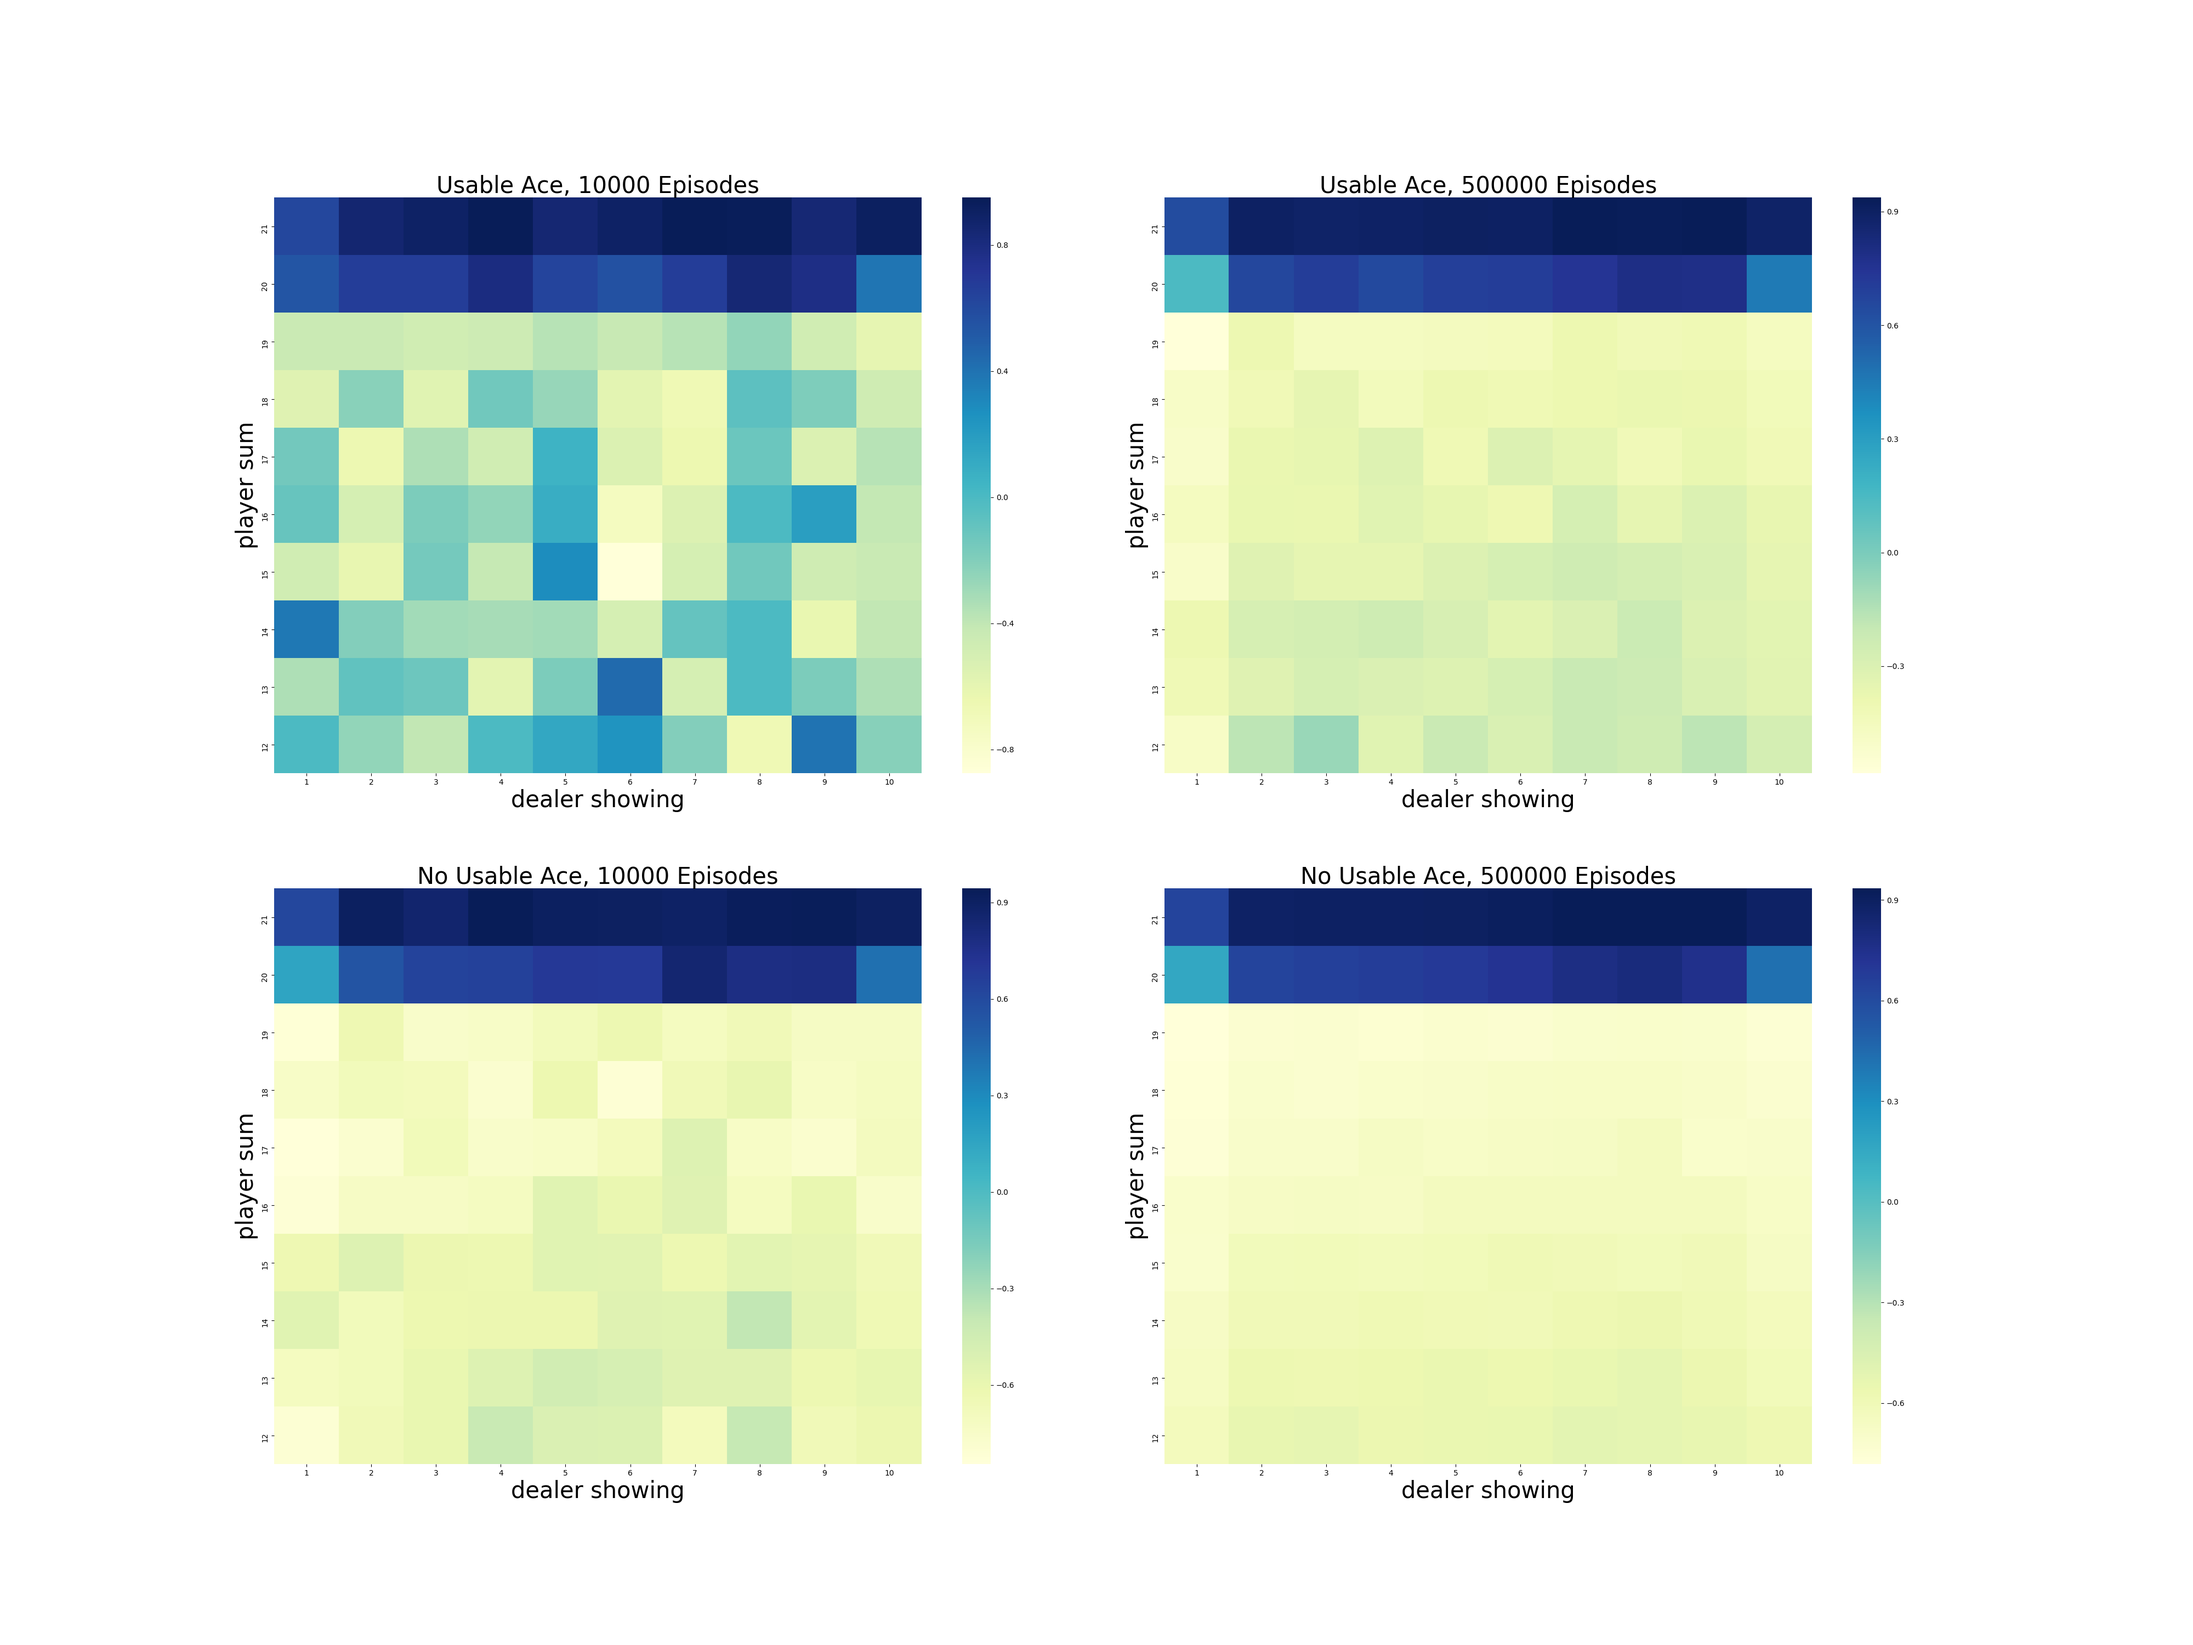
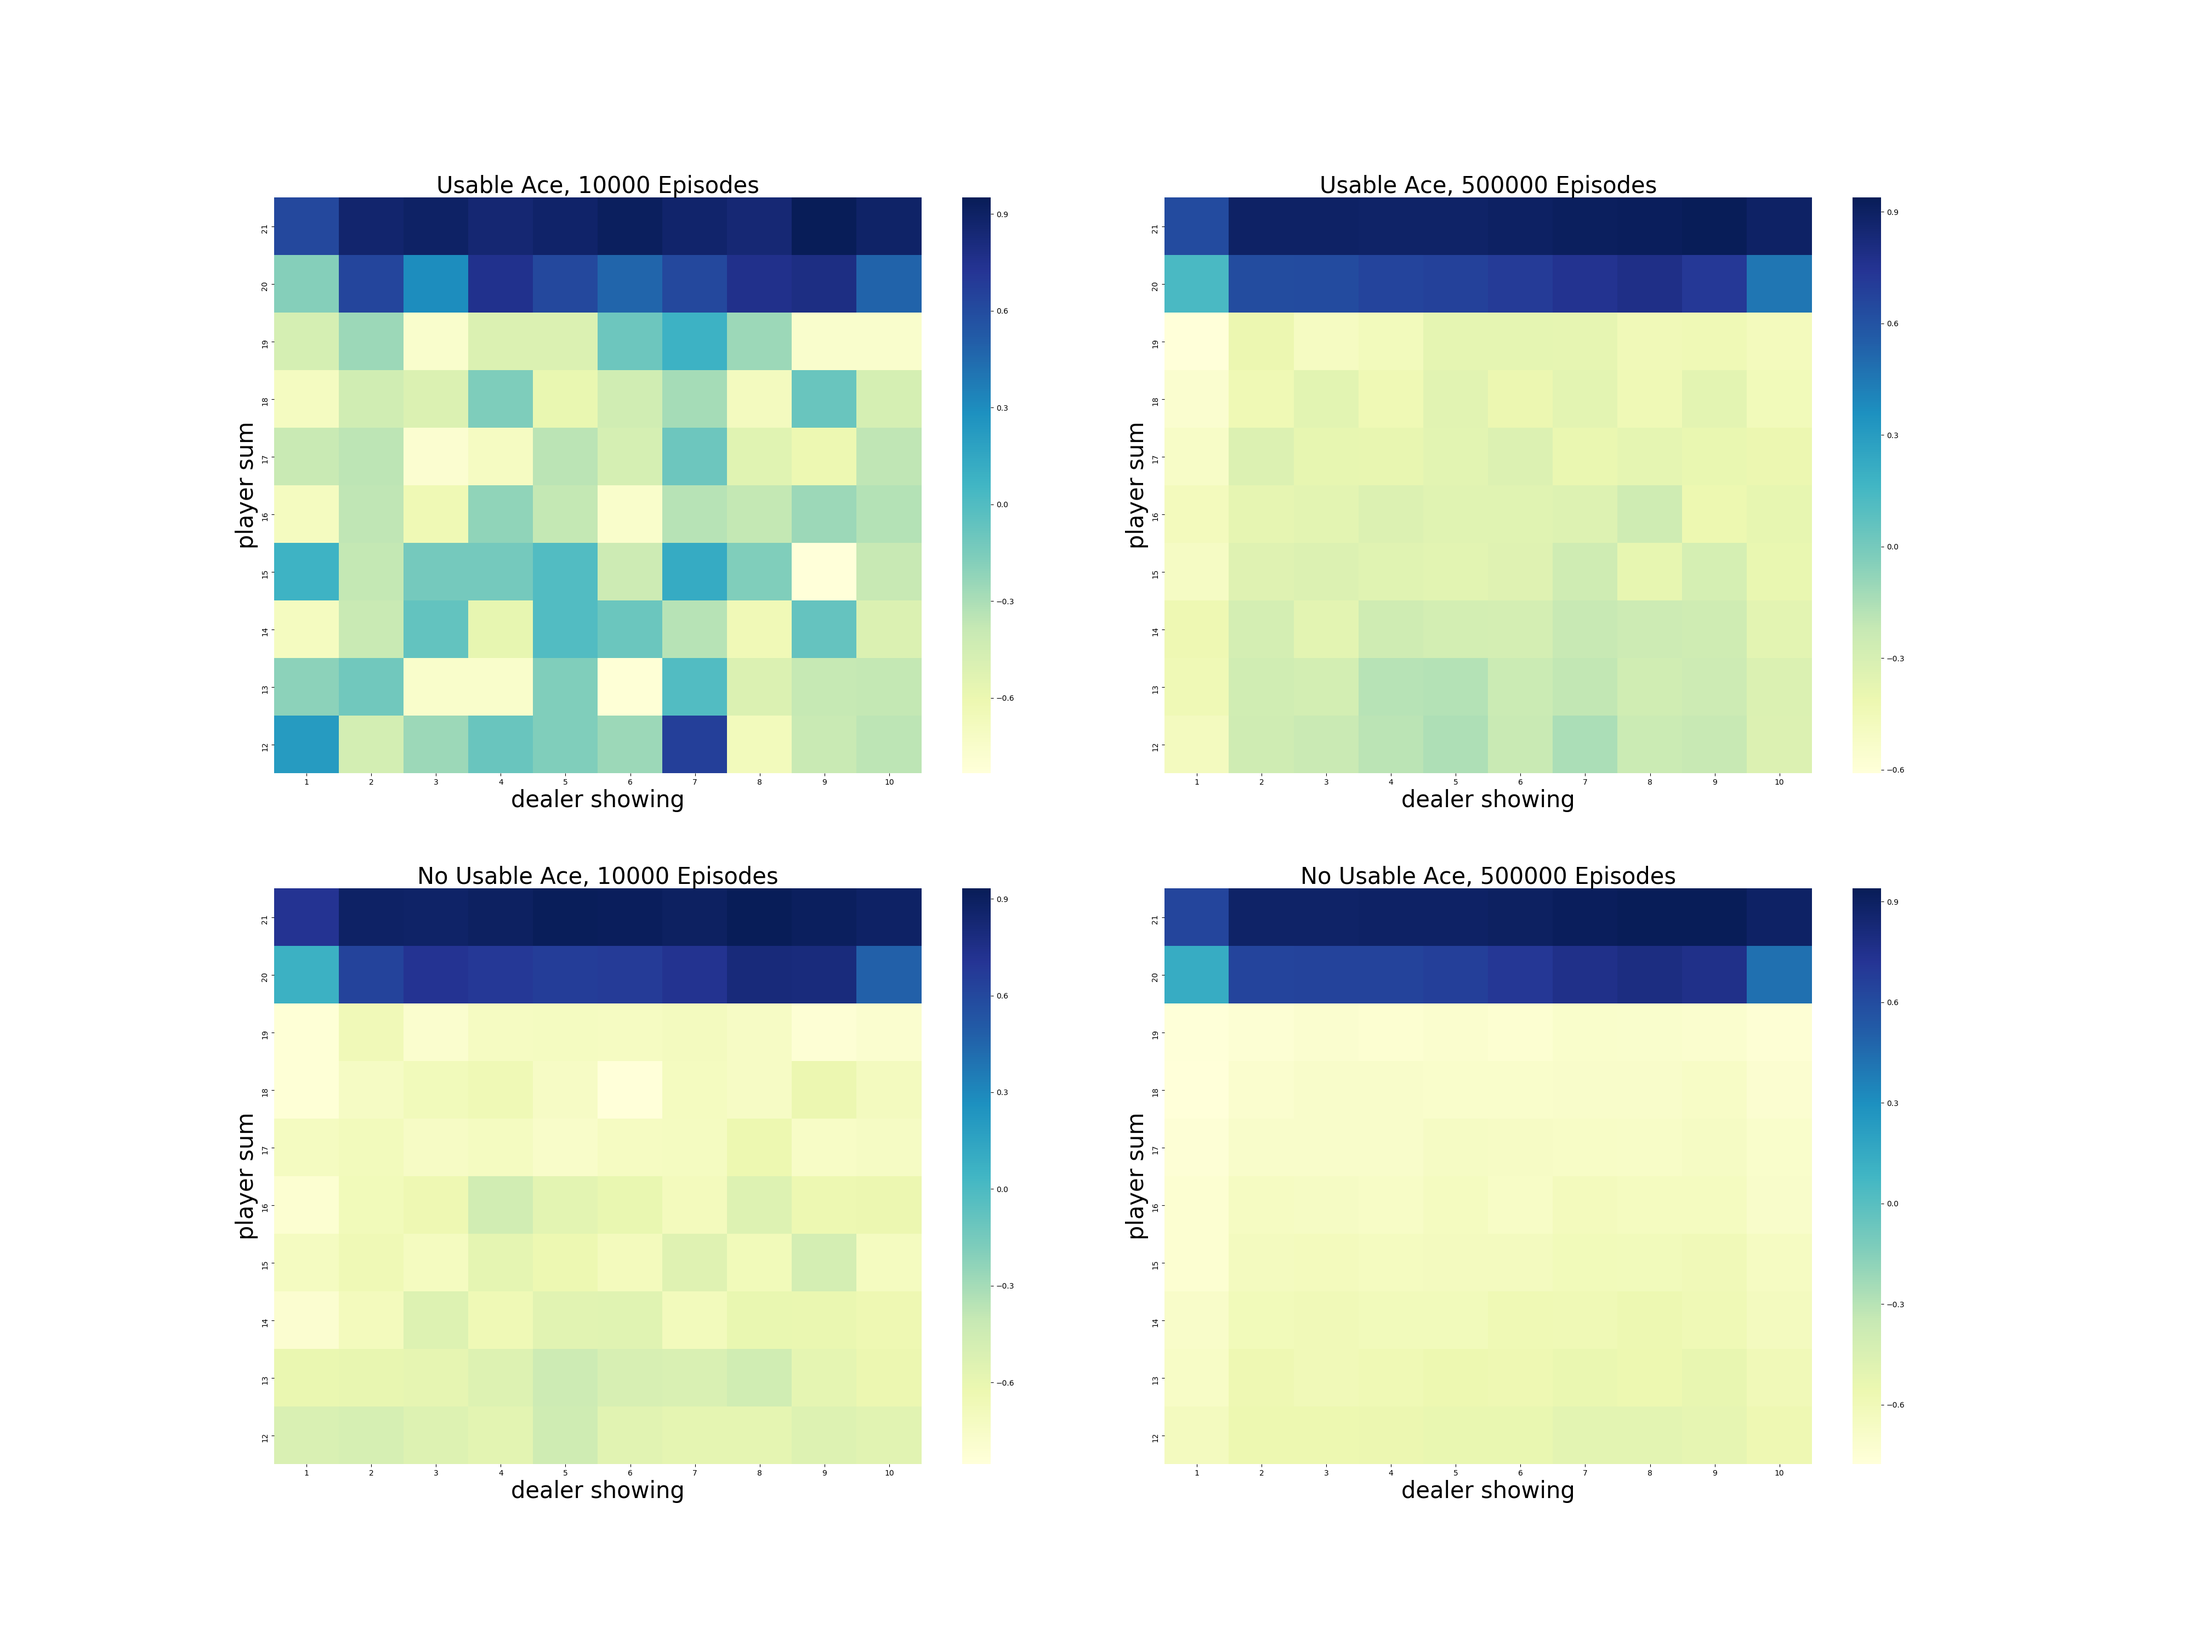
Fix a bug in BlackJack, thanks @Huixxi

diff --git a/chapter05/blackjack.py b/chapter05/blackjack.py
@@ -78,11 +78,13 @@ def play(policy_player, initial_state=None, initial_action=None):
         # generate a random initial state
 
         # initialize cards of player
+        cards = []
         while player_sum < 12:
             # if sum of player is less than 12, always hit
             card = get_card()
+            cards.append(card)
             player_sum += card_value(card)
-            usable_ace_player = (card == 1)
+        usable_ace_player = (1 in cards)
 
         # Always use an ace as 11, unless there are two.
         # If the player's sum is larger than 21, he must hold two aces.
